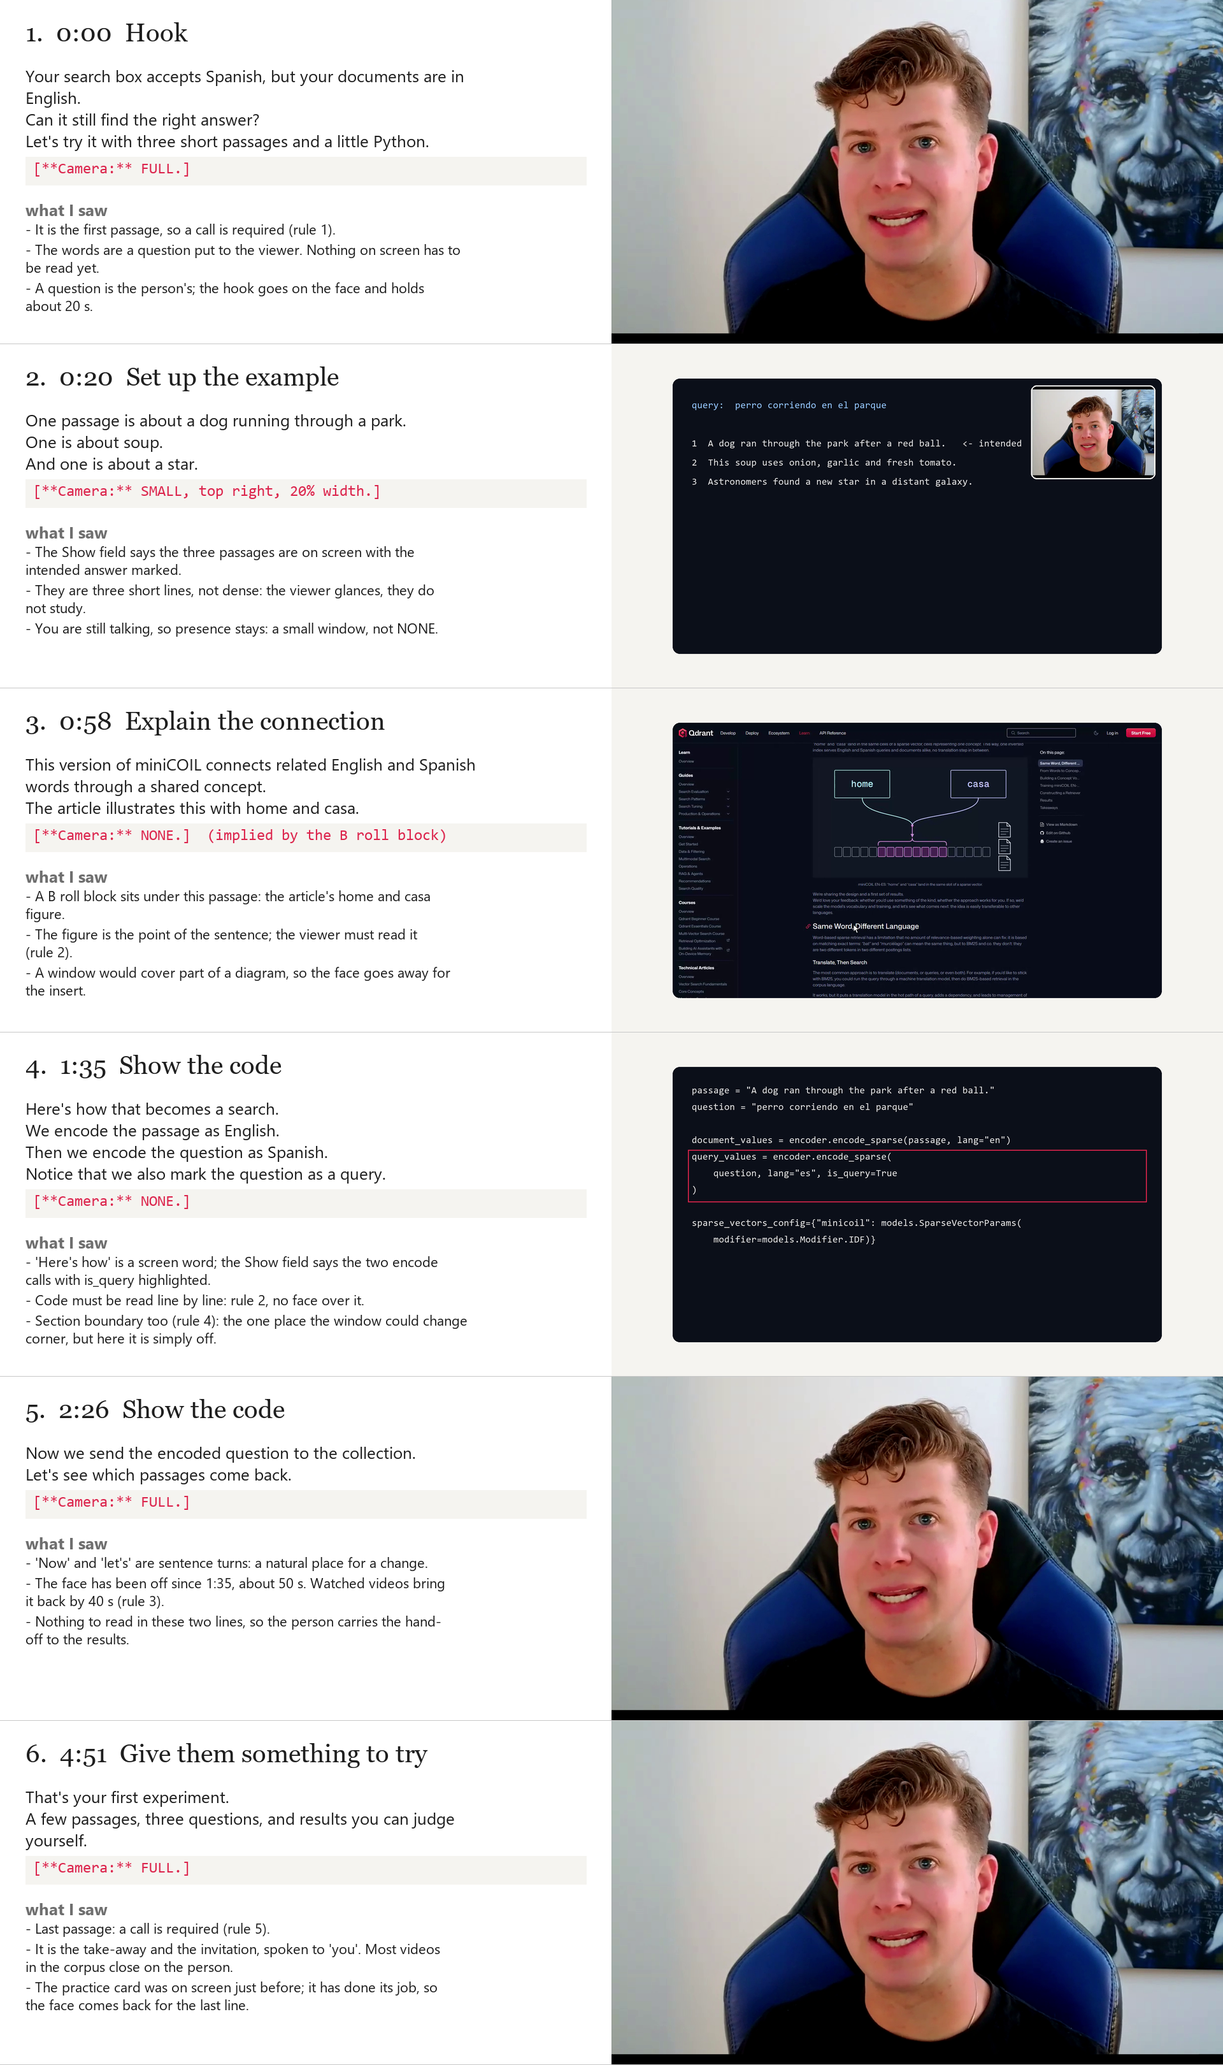
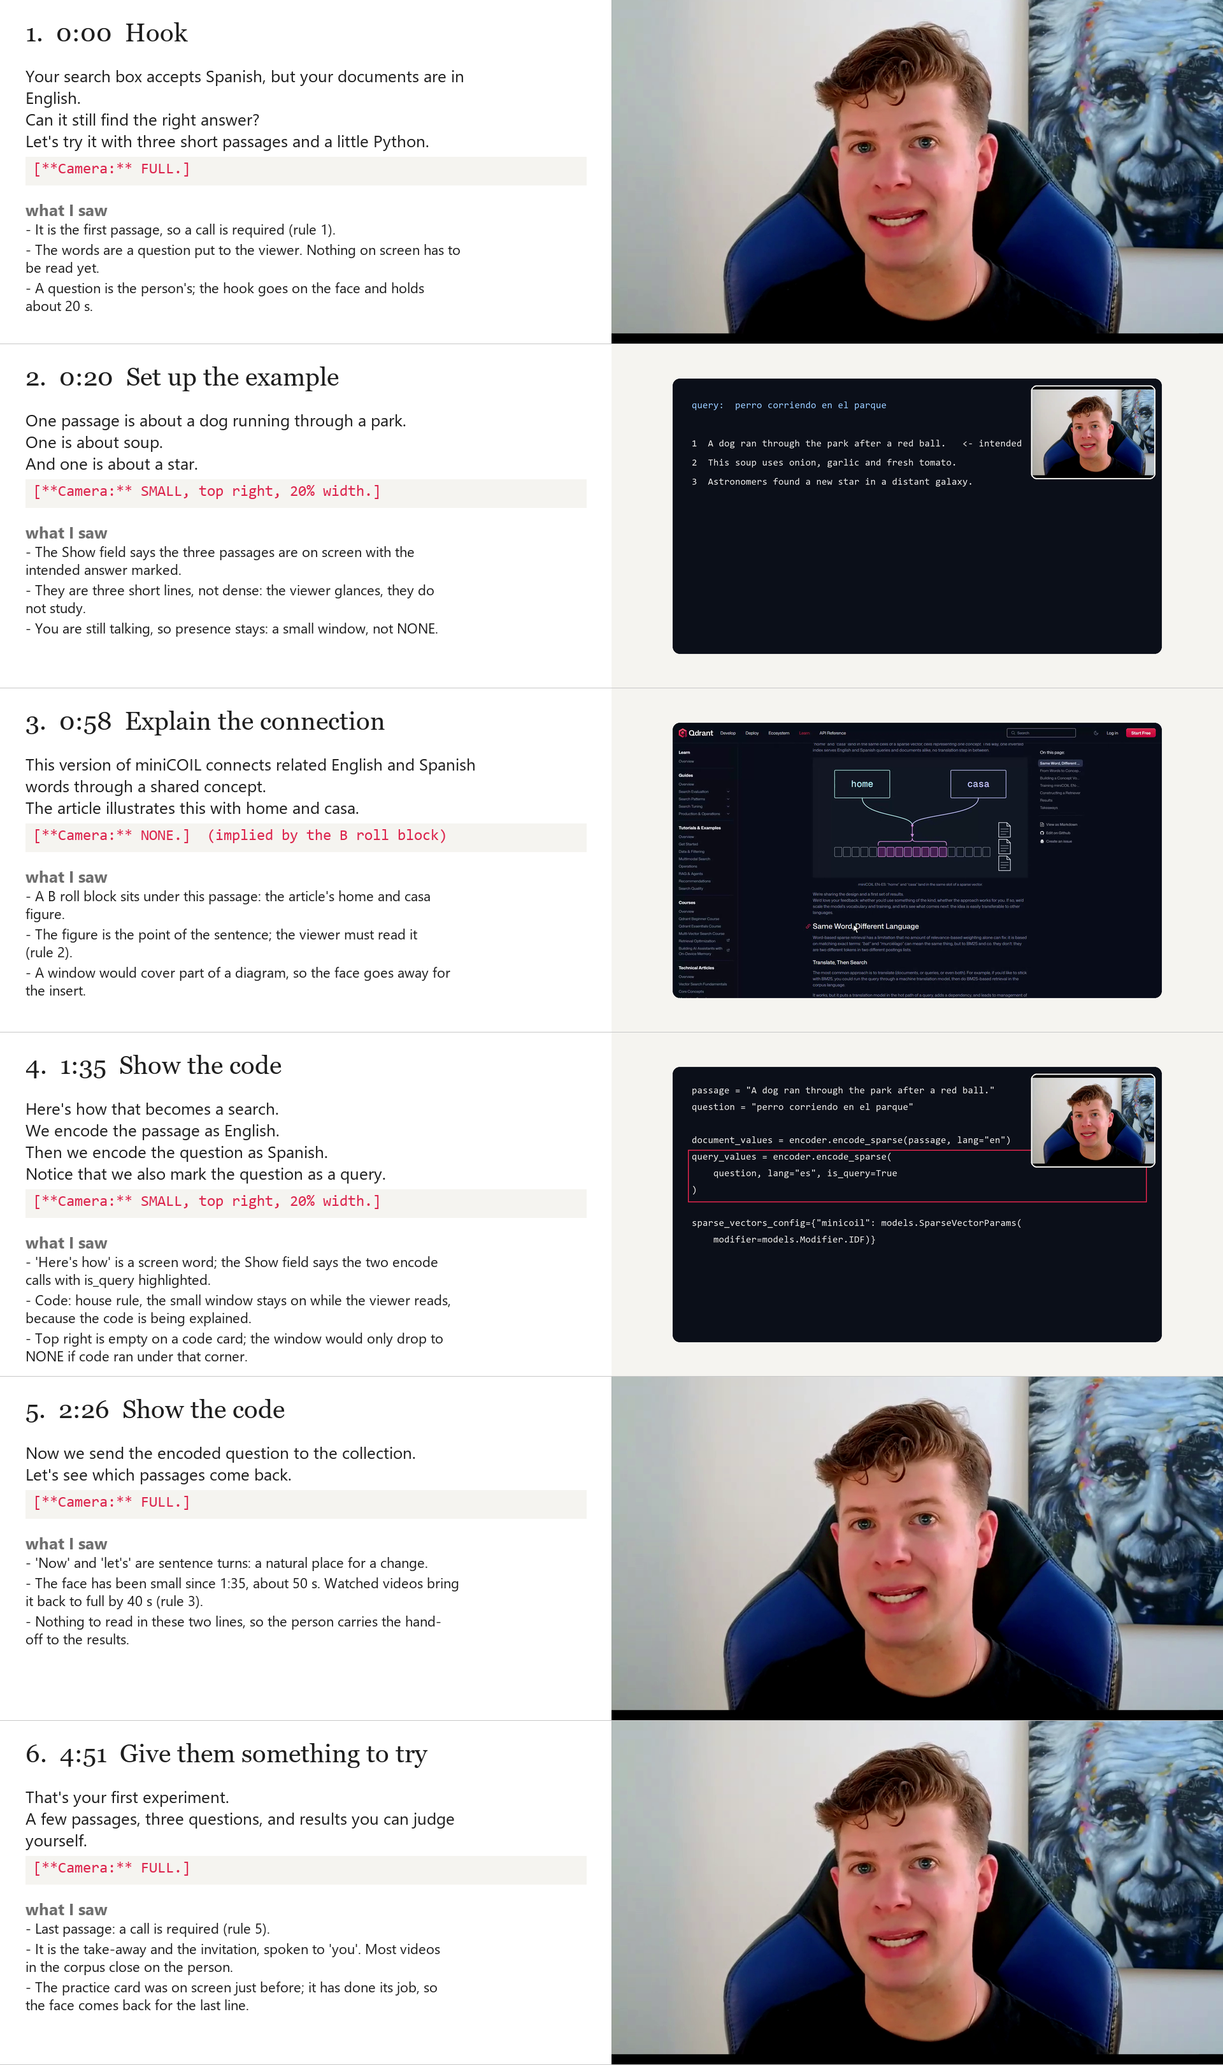
camera-layout: house rule, code keeps a small top-right window; planner default corner top right

Changed region(s): [[0.0312, 0.6235, 0.375, 0.6546], [0.8438, 0.4988, 0.9688, 0.5923], [0.125, 0.7481, 0.1562, 0.7793]]

diff --git a/skills/camera-layout/scripts/camera_plan.py b/skills/camera-layout/scripts/camera_plan.py
@@ -17,13 +17,15 @@ checks and any conflicts with Camera directions already in the script.
 import argparse, re, sys
 
 LAYOUTS = ("full", "half", "inset", "small", "none")
-SIZE = {"full": "head and shoulders, centred", "half": "full-height panel, 40% width, presenter side", "inset": "window 28% width, corner", "small": "window 18% width, corner", "none": "screen only"}
+SIZE = {"full": "head and shoulders, centred", "half": "full-height panel, 40% width, presenter side", "inset": "window 28% width, corner", "small": "window 20% width, corner", "none": "screen only"}
 
 READ = r"\b(code|terminal|output|result|results|returns?|response|diagram|illustration|config|configuration|snippet|function|command|query|vector|json|table|screenshot|logs?|error)\b"
 WALK = r"\b(click|open|run|type|scroll|go to|navigate|select|paste|install|let's (build|write|add)|we (add|write|create|set))\b"
 TALK = r"\b(why|because|think|idea|means|matter|important|honestly|opinion|i (think|believe|like)|the point|in short|so what|recap|summary|to sum|that's it|thanks|subscribe|comment|next video|link)\b"
 COMPARE = r"\b(versus|vs\.?|compared (to|with)|comparison|side by side)\b"
 READ_HARD = r"\b(highlight|highlighted|readable|inspect|read|code|calls?|config|configuration|diagram|illustration|results?|output|ranked?|table)\b"
+CODE = r"\b(code|calls?|snippet|config|configuration|function|command|terminal)\b"
+LOOK_ONLY = r"\b(diagram|illustration|results?|table|ranked?)\b"
 HOOK_RESULT = r"\b(look at this|here's what|watch this|this is what happens|the result)\b"
 
 def mmss(s):
@@ -76,6 +78,8 @@ def choose(p, idx, n_in_section, section_title, is_first):
         if re.search(HOOK_RESULT, t): return "none", "hook lands on a result the viewer sees"
         return "full", "hook: the person asks the question"
     if re.search(COMPARE, t) and re.search(READ, t + " " + show): return "half", "comparison: person and content carry equal weight"
+    if re.search(CODE, show + " " + t) and not re.search(LOOK_ONLY, show):
+        return "small", "code on screen: house rule, small window top right so the person stays while they read"
     if re.search(READ_HARD, show): return "none", "the viewer must read what is on screen"
     if re.search(WALK, t): return "small", "walkthrough: presence while the viewer follows the cursor"
     if show and not re.search(TALK, t): return "small", "something is on screen but not dense: presence, small"
@@ -84,7 +88,7 @@ def choose(p, idx, n_in_section, section_title, is_first):
     if re.search(READ, t): return "small", "talks about on-screen material: keep presence, keep the screen"
     return "full", "explanation with nothing to read: the person carries it"
 
-def plan(sections, style="cut", corner="bottom-right"):
+def plan(sections, style="cut", corner="top-right"):
     rows = []; t = 0.0; first = True; wpm = 150.0
     for si, s in enumerate(sections):
         if s["start"] is not None: t = float(s["start"])
@@ -164,7 +168,7 @@ def render(rows, notes, conflicts, used, total, cpm, n_used, title):
 
 def main():
     ap = argparse.ArgumentParser(description=__doc__, formatter_class=argparse.RawDescriptionHelpFormatter)
-    ap.add_argument("script"); ap.add_argument("--out"); ap.add_argument("--style", default="cut", choices=["cut", "window"]); ap.add_argument("--corner", default="bottom-right")
+    ap.add_argument("script"); ap.add_argument("--out"); ap.add_argument("--style", default="cut", choices=["cut", "window"]); ap.add_argument("--corner", default="top-right")
     ap.add_argument("--annotate", help="also write the script with a [**Camera:** ...] call under each passage where the camera changes")
     ap.add_argument("--json", help="also write the rows as json (for building previews)")
     a = ap.parse_args()

diff --git a/skills/camera-layout/scripts/walkthrough_example.py b/skills/camera-layout/scripts/walkthrough_example.py
@@ -23,11 +23,11 @@ EX = [
       call="[**Camera:** NONE.]  (implied by the B roll block)", layout="none", kind="article",
       saw=["A B roll block sits under this passage: the article's home and casa figure.", "The figure is the point of the sentence; the viewer must read it (rule 2).", "A window would cover part of a diagram, so the face goes away for the insert."]),
  dict(n=4, t="1:35", section="Show the code", lines=["Here's how that becomes a search.", "We encode the passage as English.", "Then we encode the question as Spanish.", "Notice that we also mark the question as a query."],
-      call="[**Camera:** NONE.]", layout="none", kind="code",
-      saw=["'Here's how' is a screen word; the Show field says the two encode calls with is_query highlighted.", "Code must be read line by line: rule 2, no face over it.", "Section boundary too (rule 4): the one place the window could change corner, but here it is simply off."]),
+      call="[**Camera:** SMALL, top right, 20% width.]", layout="small", kind="code",
+      saw=["'Here's how' is a screen word; the Show field says the two encode calls with is_query highlighted.", "Code: house rule, the small window stays on while the viewer reads, because the code is being explained.", "Top right is empty on a code card; the window would only drop to NONE if code ran under that corner."]),
  dict(n=5, t="2:26", section="Show the code", lines=["Now we send the encoded question to the collection.", "Let's see which passages come back."],
       call="[**Camera:** FULL.]", layout="full", face=fullB, kind="code",
-      saw=["'Now' and 'let's' are sentence turns: a natural place for a change.", "The face has been off since 1:35, about 50 s. Watched videos bring it back by 40 s (rule 3).", "Nothing to read in these two lines, so the person carries the hand-off to the results."]),
+      saw=["'Now' and 'let's' are sentence turns: a natural place for a change.", "The face has been small since 1:35, about 50 s. Watched videos bring it back to full by 40 s (rule 3).", "Nothing to read in these two lines, so the person carries the hand-off to the results."]),
  dict(n=6, t="4:51", section="Give them something to try", lines=["That's your first experiment.", "A few passages, three questions, and results you can judge yourself."],
       call="[**Camera:** FULL.]", layout="full", face=fullB, kind="close",
       saw=["Last passage: a call is required (rule 5).", "It is the take-away and the invitation, spoken to 'you'. Most videos in the corpus close on the person.", "The practice card was on screen just before; it has done its job, so the face comes back for the last line."]),

diff --git a/skills/camera-layout/examples/miniCOIL-camera-plan-generated.md b/skills/camera-layout/examples/miniCOIL-camera-plan-generated.md
@@ -1,23 +1,22 @@
 # Camera plan: Can Spanish Search Find an English Answer?
 
-5.0 min, 2.6 changes a minute, 3 layouts carrying 5%+ of the time. Shares: full 27%, small 38%, none 35%.
+5.0 min, 2.4 changes a minute, 3 layouts carrying 5%+ of the time. Shares: full 27%, small 49%, none 23%.
 
 | time | section | says | layout | size and position | hold | why |
 |---|---|---|---|---|---|---|
 | 0:00 | Hook | Your search box accepts Spanish, but your documents are in English. Ca... | **full** | head and shoulders, centred | 20 s | hook: the person asks the question |
-| 0:20 | Set up the example | One passage is about a dog running through a park. One is about soup. ... | **small** | window 18% width, corner (bottom-right) | 9 s | something is on screen but not dense: presence, small |
+| 0:20 | Set up the example | One passage is about a dog running through a park. One is about soup. ... | **small** | window 20% width, corner (top-right) | 9 s | something is on screen but not dense: presence, small |
 | 0:29 | Set up the example | Our first question is perro corriendo en el parque. That means a dog r... | **full** | head and shoulders, centred | 21 s | opinion, reason or summary: the person carries it |
 | 0:50 | Explain the connection | Why would perro match dog? They’re different words, but they refer to ... | **none** | screen only | 23 s | the viewer must read what is on screen |
-| 1:13 | Explain the connection | For each trained concept, the encoder produces eight numbers. Those nu... | **small** | window 18% width, corner (bottom-right) | 8 s | something is on screen but not dense: presence, small |
+| 1:13 | Explain the connection | For each trained concept, the encoder produces eight numbers. Those nu... | **small** | window 20% width, corner (top-right) | 8 s | something is on screen but not dense: presence, small |
 | 1:22 | Explain the connection | The question and passage can share a concept even though their words a... | **full** | head and shoulders, centred | 13 s | something is on screen but not dense: presence, small (away from full for over 40 s: come back) |
-| 1:35 | Show the code | Here’s how that becomes a search. | **none** | screen only | 36 s | the viewer must read what is on screen |
-| 2:11 | Show the code | We store the passage’s vector in Qdrant alongside its text. This colle... | **small** | window 18% width, corner (bottom-right) | 16 s | the viewer must read what is on screen (no face for over 50 s: bring in a small window) |
+| 1:35 | Show the code | Here’s how that becomes a search. | **small** | window 20% width, corner (top-right) | 52 s | code on screen: house rule, small window top right so the person stays while they read |
 | 2:27 | Show the code | Now we send the encoded question to the collection. Let’s see which pa... | **full** | head and shoulders, centred | 8 s | explanation with nothing to read: the person carries it |
 | 2:35 | Run the search | Here are the results. | **none** | screen only | 46 s | the viewer must read what is on screen |
 | 3:21 | Run the search | We’ve checked two questions against a tiny collection. What happens wh... | **full** | head and shoulders, centred | 14 s | explanation with nothing to read: the person carries it |
-| 3:35 | Explain the limit | Take the English word bat. It could mean an animal or something you us... | **small** | window 18% width, corner (bottom-right) | 40 s | something is on screen but not dense: presence, small |
+| 3:35 | Explain the limit | Take the English word bat. It could mean an animal or something you us... | **small** | window 20% width, corner (top-right) | 40 s | something is on screen but not dense: presence, small |
 | 4:15 | Explain the limit | So your own vocabulary belongs in the test. | **full** | head and shoulders, centred | 5 s | something is on screen but not dense: presence, small (away from full for over 40 s: come back) |
-| 4:20 | Give them something to try | Start with a few short English passages you can judge yourself. | **small** | window 18% width, corner (bottom-right) | 40 s | something is on screen but not dense: presence, small |
+| 4:20 | Give them something to try | Start with a few short English passages you can judge yourself. | **small** | window 20% width, corner (top-right) | 40 s | something is on screen but not dense: presence, small |
 
 ## Checks
 
@@ -27,6 +26,9 @@
 
 - 0:29 script says 'Small face in the top right, roughly 20% of the screen width' (small); plan says full because opinion, reason or summary: the person carries it
 - 1:13 script says 'Return to a centered medium shot for the final sentence.' (full); plan says small because something is on screen but not dense: presence, small
+- 1:35 script says 'Face hidden throughout the code walkthrough.' (none); plan says small because code on screen: house rule, small window top right so the person stays while they read
+- 1:39 script says 'Face hidden throughout the code walkthrough.' (none); plan says small because code on screen: house rule, small window top right so the person stays while they read
+- 1:46 script says 'Face hidden throughout the code walkthrough.' (none); plan says small because code on screen: house rule, small window top right so the person stays while they read
 - 3:35 script says 'Centered medium shot for the opening two sentences, then fac' (full); plan says small because something is on screen but not dense: presence, small
 - 3:45 script says 'Centered medium shot for the opening two sentences, then fac' (full); plan says small because something is on screen but not dense: presence, small
 - 4:39 script says 'Return to a centered medium shot for the final two sentences' (full); plan says small because something is on screen but not dense: presence, small

diff --git a/skills/camera-layout/examples/miniCOIL-script-with-camera-plan.md b/skills/camera-layout/examples/miniCOIL-script-with-camera-plan.md
@@ -18,7 +18,7 @@ Let’s try it with three short passages and a little Python.
 One passage is about a dog running through a park.  
 One is about soup.  
 And one is about a star.
-[**Camera:** SMALL, bottom right, 20% width. **Why:** something is on screen but not dense: presence, small.]
+[**Camera:** SMALL, top right, 20% width. **Why:** something is on screen but not dense: presence, small.]
 
 Our first question is perro corriendo en el parque.  
 That means a dog running in the park.  
@@ -46,7 +46,7 @@ Both words contribute to the same part of the search representation.
 
 For each trained concept, the encoder produces eight numbers.  
 Those numbers also depend on the surrounding text.
-[**Camera:** SMALL, bottom right, 20% width. **Why:** something is on screen but not dense: presence, small.]
+[**Camera:** SMALL, top right, 20% width. **Why:** something is on screen but not dense: presence, small.]
 
 The question and passage can share a concept even though their words are in different languages.  
 That gives them a way to match without translating the question first.
@@ -57,7 +57,7 @@ That gives them a way to match without translating the question first.
 ## Show the code   1:35 to 2:35
 
 Here’s how that becomes a search.
-[**Camera:** NONE. **Why:** the viewer must read what is on screen.]
+[**Camera:** SMALL, top right, 20% width. **Why:** code on screen: house rule, small window top right so the person stays while they read.]
 
 We encode the passage as English.  
 Then we encode the question as Spanish.
@@ -72,7 +72,6 @@ Sparse means we keep the positions with values instead of listing every empty po
 
 We store the passage’s vector in Qdrant alongside its text.  
 This collection also uses the IDF setting, which weights positions according to how common they are across the collection.
-[**Camera:** SMALL, bottom right, 20% width. **Why:** the viewer must read what is on screen.]
 
 [**Show:** The sparse vector configuration, with Modifier.IDF highlighted. **Transition:** Move to the search call.]
 
@@ -109,7 +108,7 @@ What happens when the meaning or vocabulary becomes more complicated?
 
 Take the English word bat.  
 It could mean an animal or something you use in baseball.
-[**Camera:** SMALL, bottom right, 20% width. **Why:** something is on screen but not dense: presence, small.]
+[**Camera:** SMALL, top right, 20% width. **Why:** something is on screen but not dense: presence, small.]
 
 Sharing a concept is only part of the task.  
 The surrounding words help the encoder represent which meaning is intended.
@@ -130,7 +129,7 @@ So your own vocabulary belongs in the test.
 ## Give them something to try   4:20 to 5:00
 
 Start with a few short English passages you can judge yourself.
-[**Camera:** SMALL, bottom right, 20% width. **Why:** something is on screen but not dense: presence, small.]
+[**Camera:** SMALL, top right, 20% width. **Why:** something is on screen but not dense: presence, small.]
 
 Write one Spanish question with an obvious answer.  
 Then try a question where the surrounding words change the meaning.  

diff --git a/skills/camera-layout/references/camera-markers.md b/skills/camera-layout/references/camera-markers.md
@@ -32,9 +32,13 @@ Write a call under a passage when any of these is true. If none is, write nothin
 1. **The opening.** The first passage always carries one, so the editor knows whether the video opens on the
    person or the screen. The opening holds about 20 s; don't call a change inside it unless the hook needs
    the screen.
-2. **Something must be read.** Code, results, a table, a diagram, an article insert. The call is NONE (or
-   SMALL if the screen is light and you keep talking). Every B-roll block implies NONE for its duration;
-   write the call only if the camera should be somewhere other than hidden when the insert ends.
+2. **Something must be read.** Code, results, a table, a diagram, an article insert.
+   - Code: SMALL, top right, 20% width. House rule: the person stays on while the viewer reads the code,
+     because code is explained as much as read. The window lives in the top right, where a code card has
+     nothing. Drop to NONE only when the code or its output runs under that corner.
+   - Results, tables, diagrams, article inserts: NONE. These are looked at, and a window would cover part of
+     them. Every B-roll block implies NONE for its duration; write a call only if the camera should be
+     somewhere other than hidden when the insert ends.
 3. **The person carries the line.** A reason, an opinion, a question, the summary of a section, the call to
    action. The call is FULL. Also write FULL when the face has been away for about 40 s, even mid-section:
    that is when watched videos bring it back.

diff --git a/skills/camera-layout/SKILL.md b/skills/camera-layout/SKILL.md
@@ -95,7 +95,7 @@ For machine handoffs, use [the output format](references/output-format.md), whic
 ## How the script carries the calls
 
 A camera call is a `[**Camera:** LAYOUT, position, size.]` line under the passage where the camera changes;
-between calls it holds. A call is required at the opening, wherever something must be read (NONE or SMALL),
+between calls it holds. A call is required at the opening, wherever something must be read (code: SMALL top right by house rule; results, diagrams and inserts: NONE),
 wherever the person carries the line or the face has been away about 40 s (FULL), at a section boundary
 where the material changes, and at the close. Nothing else earns one. The vocabulary and the full rules are
 in [camera-markers.md](references/camera-markers.md); `camera_plan.py --annotate` writes calls in exactly

diff --git a/skills/camera-layout/references/layouts.md b/skills/camera-layout/references/layouts.md
@@ -49,6 +49,9 @@ than 25 s before either the face returns to full or the window goes away. Bottom
 common corners (10 and 9 videos); pick the corner that does not cover the terminal, the results or the
 cursor's working area, and keep the same corner through a section.
 
+House rule (John, 2026-10-14): code gets the small window, top right, 20% width, by default. It is the one
+reading layout where the person stays on screen.
+
 ## none: screen only
 No presenter. The viewer reads code, results, a diagram, an article, a product. 31% of all time; median
 stretch 10 s, three quarters under 22 s, almost never over 50 s without the face coming back in some size.
